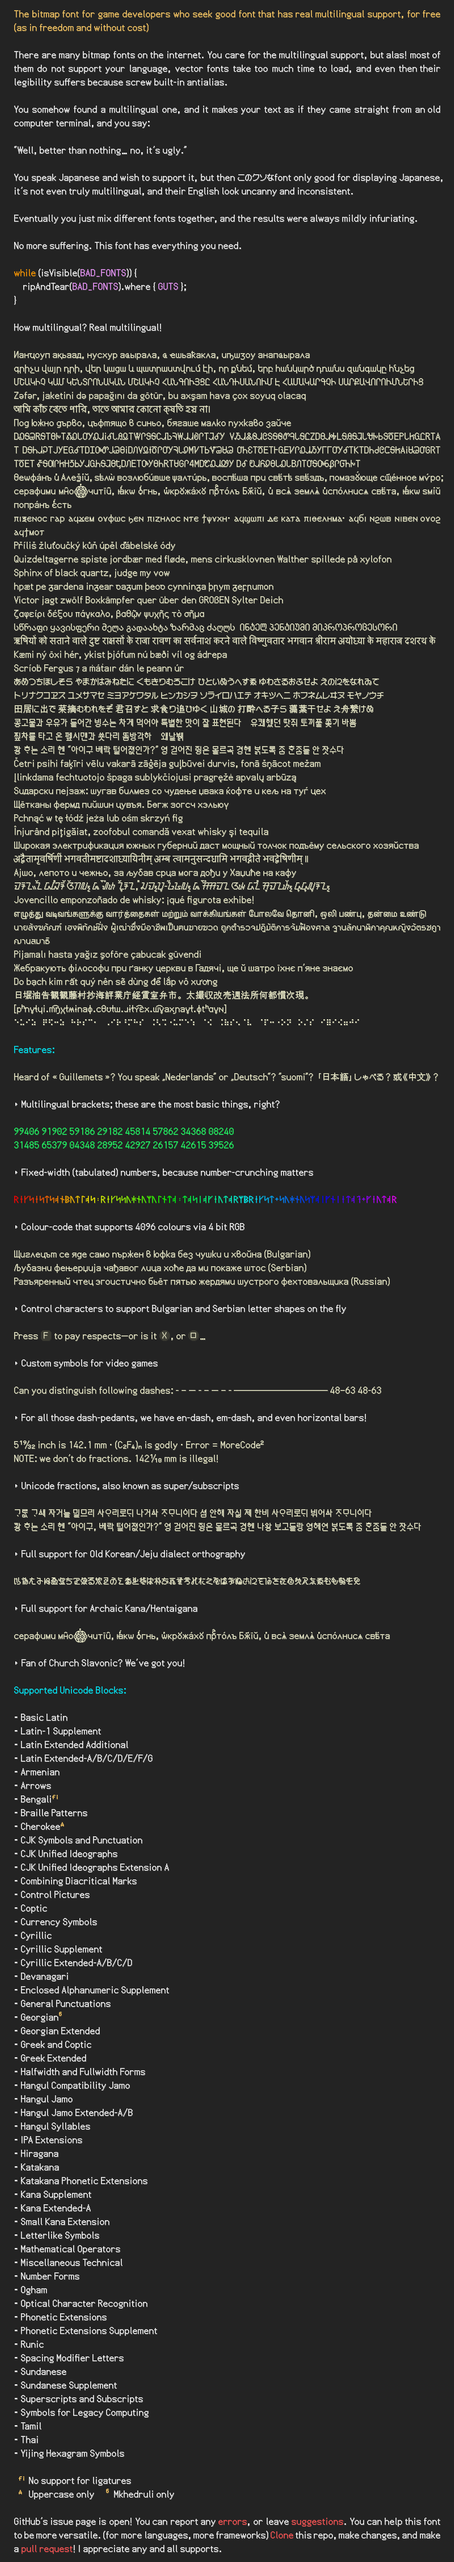
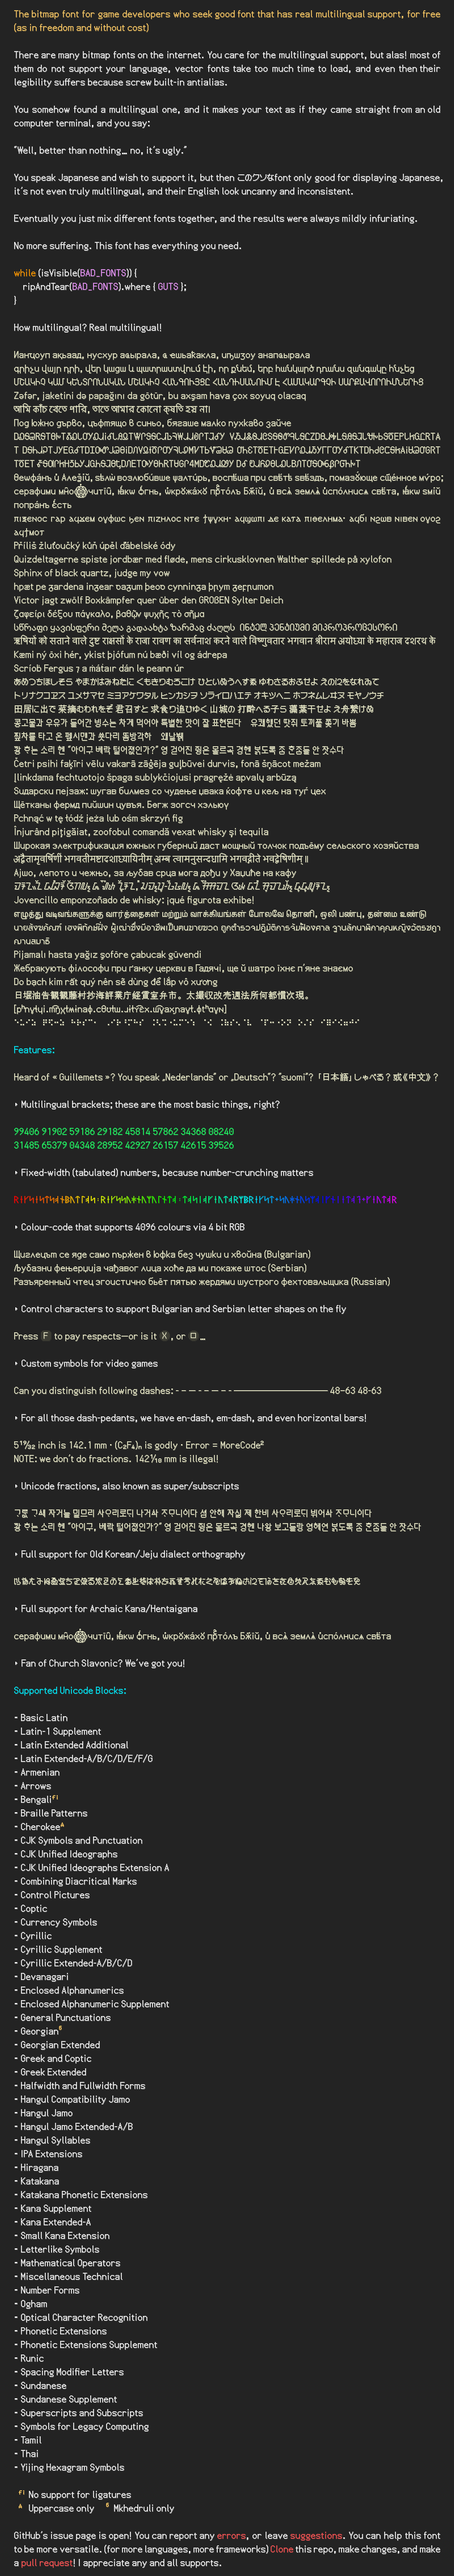
Enclosed alphanumerics (issue #18)

diff --git a/src/net/torvald/terrarumsansbitmap/gdx/TerrarumSansBitmap.kt b/src/net/torvald/terrarumsansbitmap/gdx/TerrarumSansBitmap.kt
@@ -904,6 +904,7 @@ class TerrarumSansBitmap(
             SHEET_CYRILIC_EXTD_VARW -> cyrilicExtDIndexY(ch)
             SHEET_MATHS1_VARW -> maths1IndexY(ch)
             SHEET_EMOJI1 -> emoji1IndexY(ch)
+            SHEET_ENCLOSED_ALPHNUM_VARW -> enclosedAlphnumIndexY(ch)
             else -> ch / 16
         }
 
@@ -2643,6 +2644,7 @@ class TerrarumSansBitmap(
         internal const val SHEET_CYRILIC_EXTD_VARW = 50
         internal const val SHEET_MATHS1_VARW = 51
         internal const val SHEET_EMOJI1 = 52
+        internal const val SHEET_ENCLOSED_ALPHNUM_VARW = 53
 
         internal const val SHEET_UNKNOWN = 254
 
@@ -2718,6 +2720,7 @@ class TerrarumSansBitmap(
             "cyrilic_extD_variable.tga",
             "maths1_extrawide_variable.tga",
             "emoji1.tga",
+            "enclosed_alphanumeric_variable.tga",
         )
         internal val codeRange = arrayOf( // MUST BE MATCHING WITH SHEET INDICES!!
             0..0xFF, // SHEET_ASCII_VARW
@@ -2773,6 +2776,7 @@ class TerrarumSansBitmap(
             0x1E030..0x1E08F, // SHEET_CYRILIC_EXTD_VARW
             0x2200..0x23FF, // SHEET_MATHS1_VARW
             0x1F600..0x1F64F, // SHEET_EMOJI1
+            0x2460..0x24FF, // SHEET_ENCLOSED_ALPHNUM_VARW
         )
         private val codeRangeHangulCompat = 0x3130..0x318F
 
@@ -3136,6 +3140,7 @@ class TerrarumSansBitmap(
         private fun cyrilicExtDIndexY(c: CodePoint) = (c - 0x1E030) / 16
         private fun maths1IndexY(c: CodePoint) = (c - 0x2200) / 16
         private fun emoji1IndexY(c: CodePoint) = (c - 0x1F600) / 16
+        private fun enclosedAlphnumIndexY(c: CodePoint) = (c - 0x2460) / 16
 
         val charsetOverrideDefault = Character.toChars(CHARSET_OVERRIDE_DEFAULT).toSurrogatedString()
         val charsetOverrideBulgarian = Character.toChars(CHARSET_OVERRIDE_BG_BG).toSurrogatedString()

diff --git a/OTFbuild/sheet_config.py b/OTFbuild/sheet_config.py
@@ -85,6 +85,7 @@ SHEET_COPTIC_VARW = 49
 SHEET_CYRILIC_EXTD_VARW = 50
 SHEET_MATHS1_VARW = 51
 SHEET_EMOJI1 = 52
+SHEET_ENCLOSED_ALPHNUM_VARW = 53
 
 SHEET_UNKNOWN = 254
 
@@ -142,6 +143,7 @@ FILE_LIST = [
     "cyrilic_extD_variable.tga",
     "maths1_extrawide_variable.tga",
     "emoji1.tga",
+    "enclosed_alphanumeric_variable.tga",
 ]
 
 CODE_RANGE = [
@@ -198,6 +200,7 @@ CODE_RANGE = [
     list(range(0x1E030, 0x1E090)),                                                  # 50: Cyrillic Ext D
     list(range(0x2200, 0x2400)),                                                    # 51: Maths1
     list(range(0x1F600, 0x1F650)),                                                  # 52: Emoji1
+    list(range(0x2460, 0x2500)),                                                    # 53: Enclosed Alphanum
 ]
 
 CODE_RANGE_HANGUL_COMPAT = range(0x3130, 0x3190)
@@ -589,5 +592,6 @@ def index_y(sheet_index, c):
         SHEET_CYRILIC_EXTD_VARW: lambda: (c - 0x1E030) // 16,
         SHEET_MATHS1_VARW: lambda: (c - 0x2200) // 16,
         SHEET_EMOJI1: lambda: (c - 0x1F600) // 16,
+        SHEET_ENCLOSED_ALPHNUM_VARW: lambda: (c - 0x2460) // 16,
         SHEET_HANGUL: lambda: 0,
     }.get(sheet_index, lambda: c // 16)()
